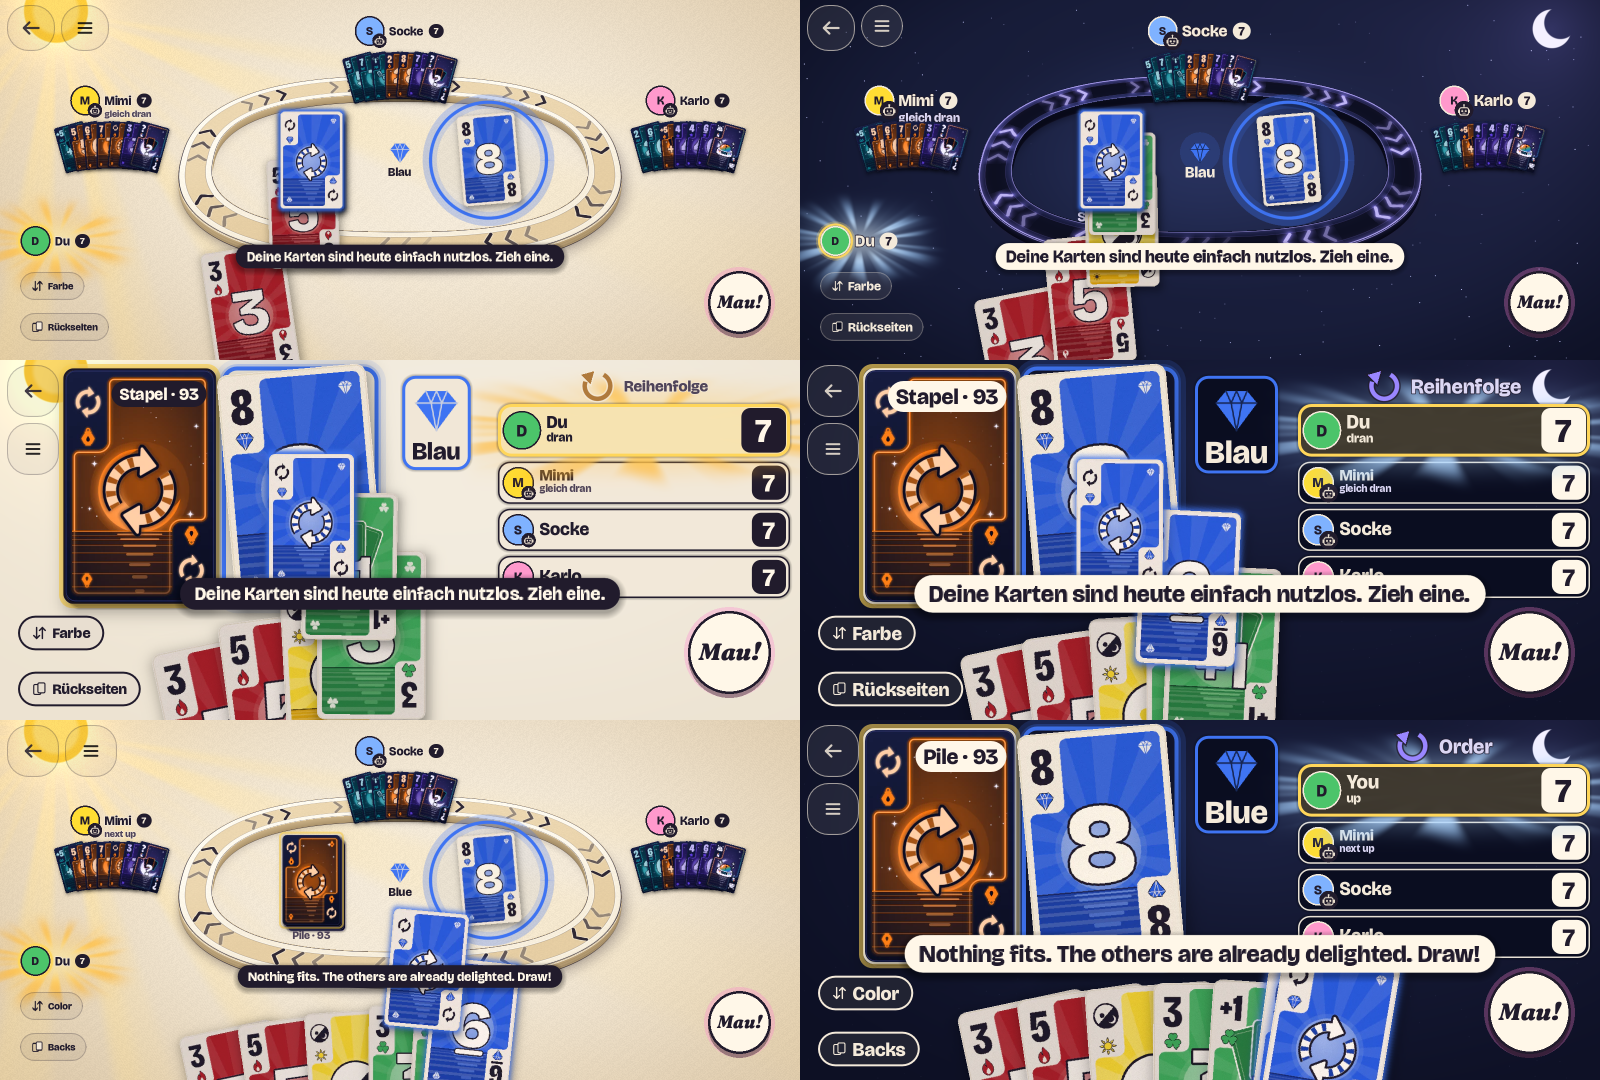
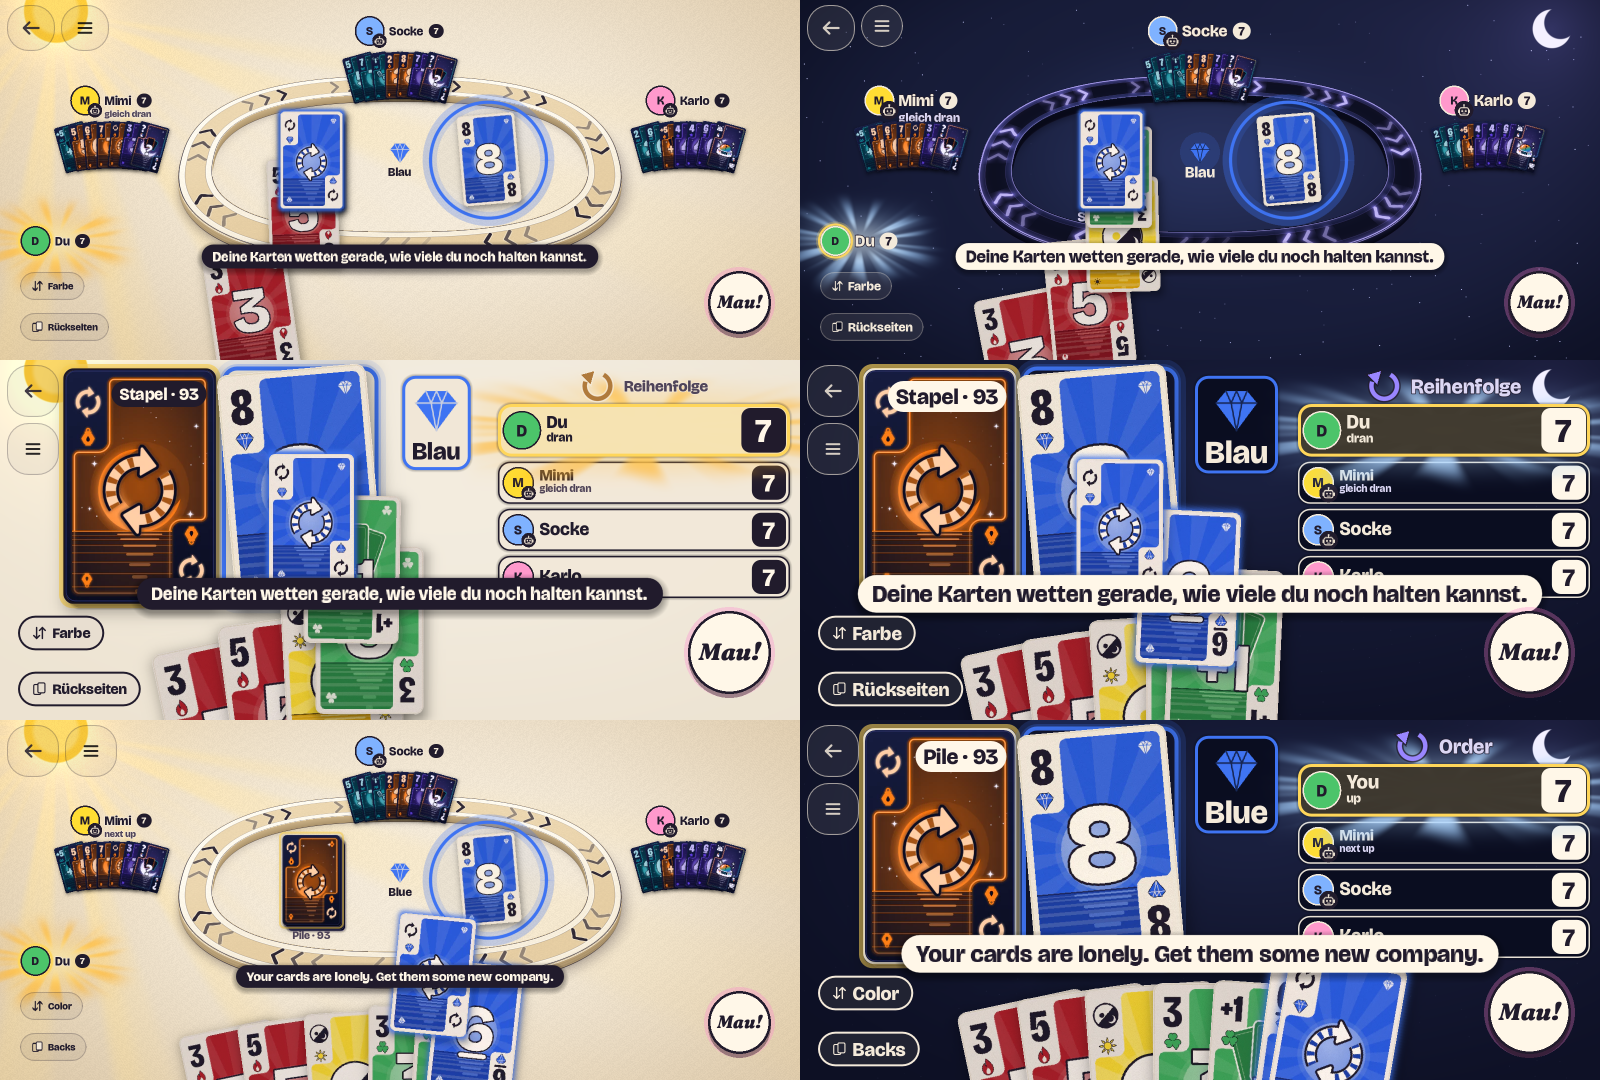
Beta 1.4.7: 11 weitere „Nichts passt“-Sprüche vom Nutzer (jetzt 51), Englisch mit Wortspielen

diff --git a/webclient/i18n_po.js b/webclient/i18n_po.js
@@ -196,6 +196,7 @@ window.MMF_I18N_PO = {
   "Beim Weitergeben spielen mehrere an diesem Gerät, darum zählen dort nur die Partien.": "In Pass the phone, several people play on this device, so only games are counted there.",
   "Beitreten": "Join",
   "Beliebige Karte": "Any card",
+  "Bereichere dich doch mal wieder.": "Go on, enrich yourself – with cards.",
   "Bereit zur Installation.": "Ready to install.",
   "Bereit ✓": "Ready ✓",
   "Bereite die Datei vor …": "Preparing the file …",
@@ -295,9 +296,11 @@ window.MMF_I18N_PO = {
   "Deine Hand hat heute frei. Zieh eine Karte.": "Your hand has the day off. Draw a card.",
   "Deine Hand: viel Auswahl, null Treffer. Zieh eine.": "Your hand: lots of choice, zero hits. Draw one.",
   "Deine Karten haben Karten bekommen.": "Your cards had baby cards.",
+  "Deine Karten sind einsam. Hol ihnen neue Gesellschaft.": "Your cards are lonely. Get them some new company.",
   "Deine Karten sind heute einfach nutzlos. Zieh eine.": "Your cards are just useless today. Draw one.",
   "Deine Karten sind sich einig: Ziehen!": "Your cards all agree: draw!",
   "Deine Karten streiken. Zieh eine neue.": "Your cards are on strike. Draw a new one.",
+  "Deine Karten wetten gerade, wie viele du noch halten kannst.": "Your cards are betting on how many more you can hold.",
   "Deine Karten, deine Entscheidung.": "Your cards, your call.",
   "Deine Statistik": "Your stats",
   "Deine Titel": "Your titles",
@@ -359,6 +362,7 @@ window.MMF_I18N_PO = {
   "Die Farbe stimmt nicht, die Zahl auch nicht. Zieh!": "The colour is wrong and so is the number. Draw!",
   "Die Glückssträhne von %s ist eher eine Pechsträhne.": "%s's lucky streak looks more like a bad one.",
   "Die Karte passt nicht.": "That card doesn't match.",
+  "Die Karten in deiner Nähe wollen dich kennenlernen.": "The cards nearby want to get to know you.",
   "Die Karten lieben dich heute.": "The cards love you today.",
   "Die Karten mögen dich. Sehr.": "The cards like you. A lot.",
   "Die Karten verlassen dich. Verständlich.": "Your cards are leaving you. Understandable.",
@@ -434,6 +438,7 @@ window.MMF_I18N_PO = {
   "Du bist fertig (Platz %d).": "You're out (place %d).",
   "Du bist gerade in einem Spiel. Wenn du wechselst, verlässt du es.": "You are in a game right now. If you switch, you leave it.",
   "Du bist gerade nicht dran.": "It's not your turn right now.",
+  "Du bist im VollZUG. Es kann nur voller werden.": "Your hand is a full DRAWer. It can only get fuller.",
   "Du bist nicht dran.": "It's not your turn.",
   "Du bist schon in diesem Spiel.": "You are already in this game.",
   "Du darfst auch freiwillig ziehen. Hausregel: Danach darfst du eine andere passende Karte legen oder alles behalten; passt nichts, ist dein Zug vorbei.": "You may also draw voluntarily. House rule: Afterward you may play a different matching card or keep everything; if nothing fits, your turn is over.",
@@ -446,6 +451,7 @@ window.MMF_I18N_PO = {
   "Du gewinnst die Partie!": "You win the game!",
   "Du gewinnst die Runde!": "You win the round!",
   "Du hast die neueste Version.": "You have the latest version.",
+  "Du hast noch nicht genug Karten!": "You don't have enough cards yet!",
   "Du hast schon gezogen – legen oder behalten.": "You've already drawn – play or keep.",
   "Du hast schon „Mau!“ gerufen.": "You've already called “Mau!”.",
   "Du hörst auf – %d Karten unter die Ablage.": "You stop – %d cards go under the discard pile.",
@@ -492,6 +498,7 @@ window.MMF_I18N_PO = {
   "Eine gezogene Karte darfst du erst im nächsten Zug legen.": "You may only play a drawn card on your next turn.",
   "Eine passende gezogene Karte darfst du sofort legen.": "You may play a matching drawn card right away.",
   "Eine passende gezogene Karte musst du sofort legen.": "You must play a matching drawn card right away.",
+  "Einfach mal hochZIEHEN, anstatt zu schnauben.": "Instead of grumbling, just DRAW UP a card.",
   "Einladung teilen": "Share invitation",
   "Einmal im Kreis und zurück.": "Once around the circle and back again.",
   "Einsatz %d": "Stake %d",
@@ -575,6 +582,7 @@ window.MMF_I18N_PO = {
   "Gelb": "Yellow",
   "Gelegt wird sie frühestens im nächsten Zug.": "You can play it on your next turn at the earliest.",
   "Gelöscht: „%s“": "Deleted: “%s”",
+  "Genieße das Leben in vollen ZÜGEN! Zieh eine.": "Live life to the fullest – full of DRAWs! Draw one.",
   "Gerade gibt es nichts zurückzunehmen.": "There is nothing to take back right now.",
   "Gerade ist keine Farbwahl offen.": "No color choice is open right now.",
   "Gerade ist nichts zum Mitablegen offen.": "There is nothing to discard along with it right now.",
@@ -647,6 +655,7 @@ window.MMF_I18N_PO = {
   "Herausnehmen": "Remove",
   "Herunterladen": "Download",
   "Heute gibt's im Stapel zwei zum Preis von einer.": "Today the pile has two for the price of one.",
+  "Heute im Sonderangebot: Karten! Zieh eine, bekomme 4!": "Special offer today: cards! Draw one, get four!",
   "Heute ist dein Glückstag. Vielleicht.": "Today's your lucky day. Maybe.",
   "Heute ist nicht dein Tag, oder?": "Not your day today, is it?",
   "Hier gibt es nichts anzuzweifeln.": "There's nothing to challenge here.",
@@ -1213,12 +1222,14 @@ window.MMF_I18N_PO = {
   "Zeigt er 0 und deine Hand ist leer, kommt der Einsatz unter den Ablagestapel: Du bist fertig und gewinnst die Runde.": "If it shows 0 and your hand is empty, the stake goes under the discard pile: You are out and win the round.",
   "Zeigt, was schon geklappt hat. Der nächste Schritt leuchtet.": "Shows what has worked so far. The next step glows.",
   "Zeit für einen Snack – %s braucht noch.": "Snack time – %s needs a bit longer.",
+  "Zieh Leine … oder eine Karte.": "Draw the line … or just a card.",
   "Zieh doch mal – nur so zum Spaß.": "Go on, draw one – just for fun.",
   "Zieh eine – das Glück wartet vielleicht oben.": "Draw one – luck may be waiting on top.",
   "Zieh eine. Vielleicht ist ja die richtige dabei.": "Draw one. Maybe the right one is in there.",
   "Zieh! Der Stapel hat dich lieb.": "Draw! The pile loves you.",
   "Ziehen": "Draw",
   "Ziehen ist auch eine Strategie.": "Drawing is a strategy too.",
+  "Ziehen oder nicht ziehen … keine Frage. Du MUSST!": "To draw or not to draw … no question. You MUST!",
   "Ziehen, ziehen, ziehen …": "Draw, draw, draw …",
   "Ziehkarten": "Draw cards",
   "Ziehkarten weitergeben": "Stack draw cards",

diff --git a/webclient/app.js b/webclient/app.js
@@ -5,7 +5,7 @@
 (function (M) {
   'use strict';
 
-  const VERSION = '1.4.6';
+  const VERSION = '1.4.7';
   const PROTO = 1;
   // wach.mp4 (32×32, 2 s, H.264 Baseline, ohne Ton; erzeugt mit ffmpeg) als data:-URI
[1 lines of base64/hex data omitted]

diff --git a/webclient/spass.js b/webclient/spass.js
@@ -111,7 +111,18 @@
       ["Nichts zu legen, aber was zu ziehen!", "nett"],
       ["Zieh eine – das Glück wartet vielleicht oben.", "nett"],
       ["Nichts passt. Die anderen freuen sich schon. Zieh!", "frech"],
-      ["Deine Hand: viel Auswahl, null Treffer. Zieh eine.", "frech"]
+      ["Deine Hand: viel Auswahl, null Treffer. Zieh eine.", "frech"],
+      ["Heute im Sonderangebot: Karten! Zieh eine, bekomme 4!", "nett"],
+      ["Du bist im VollZUG. Es kann nur voller werden.", "nett"],
+      ["Zieh Leine … oder eine Karte.", "nett"],
+      ["Deine Karten sind einsam. Hol ihnen neue Gesellschaft.", "nett"],
+      ["Deine Karten wetten gerade, wie viele du noch halten kannst.", "nett"],
+      ["Genieße das Leben in vollen ZÜGEN! Zieh eine.", "nett"],
+      ["Ziehen oder nicht ziehen … keine Frage. Du MUSST!", "nett"],
+      ["Einfach mal hochZIEHEN, anstatt zu schnauben.", "nett"],
+      ["Die Karten in deiner Nähe wollen dich kennenlernen.", "nett"],
+      ["Du hast noch nicht genug Karten!", "nett"],
+      ["Bereichere dich doch mal wieder.", "nett"]
     ],
     tipp: [
       ["Im Ziehstapel liegt vielleicht genau die Karte, die du brauchst. Schau mal nach.", "frech"],

diff --git a/AGENTS.md b/AGENTS.md
@@ -130,7 +130,7 @@ Anlass: erstes echtes Online-Spiel des Nutzers (S24 Gastgeber, Freundin als Gast
 - **Mitten im Spiel dazuholen/entfernen:** QR-Codes für Neue, Platz wählen; Neuer bekommt die höchste aktuelle Kartenzahl eines Mitspielers, höchstens die Startzahl. Wer ausfällt (Akku leer, keine Lust, offline/„in anderer App“), kann der Gastgeber entfernen – neben „Computer übernimmt“, beide Optionen sofort sichtbar.
 - **Erledigt in Beta 1.4.3 (veröffentlicht 10.10.2026): QR-Scanner** (Google Code Scanner, `QrScan.java`, keine Kamera-Erlaubnis; kleiner gelber Rundknopf oben rechts auf „Beitreten“ – Nutzerwunsch, der große Knopf verdrängte die Liste), Auswertung `QrJoin.parse` (WLAN-Link, Online-Link, App-Link, `WIFI:`), Spiel-WLAN per `WifiNetworkSpecifier` (`QrWifi.java`, Bindung `qr_wifi`, Freigabe beim Verlassen und über `QrJoin.check_lost`), Testeinstieg `--es mmf_scan`. Nutzer hat den Online-QR mit echter Kamera gescannt. Bericht `docs/geraetetest/1.4.3/BERICHT.md`. Offen: mobile Daten am Gast mangels SIM ungeprüft; Dialog „Lobby schließen?“ zählt getrennte Gäste als verbunden; Spiel-WLAN bleibt nach „Lobby schließen“ offen.
 - **Gastgeber-Übergabe** (Nutzer 10.10.2026, „passt so“; nach dem Kontingent-Neustart Mo 12.10. 20 Uhr): (1) geplant: „Gastgeber übergeben“ → Gast wählen → vollständiger Spielstand geht an ihn, alle werden umgeleitet; (2) unerwarteter Ausfall: laufende Sicherungskopie an einen Ersatz-Gastgeber (z. B. Nächster am Tisch), der nach einigen Sekunden übernimmt (Kompromiss: dessen App hält alle Karten, zeigt sie nicht). Reihenfolge: zuerst online (Vermittler/Raumcode bleiben), dann WLAN (App-Gäste finden den neuen Gastgeber, Browser-Gäste bekommen die Ersatz-Adresse vorab); Spiel-WLAN nur geplant (neuer Gastgeber öffnet eigenes Spiel-WLAN, Umzug per QR).
-- **Erledigt in Beta 1.4.4 (veröffentlicht 10.10.2026): Ostereier Teil 1** – Sprüche (`fun_texts.gd`, `webclient/spass.js`, `game/i18n/en_fun.po`; Liste des Nutzers `docs/module/sprueche.md`, 11 Anlässe × 20, „geil“; Einstellung `sprueche` aus/nett/frech, ab Werk frech), Überraschungen (`fun_fx.gd`: Katze auf dem Stapel, Sternschnuppe/Schmetterling, Autsch-Stempel, Applaus; `fun_logo.gd`: 7× Katze, Sonne grinst/Mond zwinkert; `fun_titles.gd`: Spaßtitel). Bericht `docs/geraetetest/1.4.4/BERICHT.md`. **1.4.5 (veröffentlicht 10.10.2026):** Einstellung `sprueche_oft` Selten/Normal/Oft/Immer (ab Werk Oft; Nutzer fand Sprüche zu selten), Immer ersetzt den Standardtext beim eigenen Zug dauerhaft, gemischte Tüte je Anlass. **1.4.6 (veröffentlicht 10.10.2026):** Anlass `nichts_passt` (40 Sprüche, Abschnitt 12 in `docs/module/sprueche.md`) ersetzt nur den reinen Hinweis „nichts passt – zieh eine Karte“ (nicht bei Strafen/Ziehpflicht; nur mit „Spielbare Karten hervorheben“). **Teil 2 (nach Mo 12.10.):** an andere senden – Gähnen, Schnarchen, Wecker, Reaktionen, Papierkugel, mit eigenen Tönen zur Auswahl.
+- **Erledigt in Beta 1.4.4 (veröffentlicht 10.10.2026): Ostereier Teil 1** – Sprüche (`fun_texts.gd`, `webclient/spass.js`, `game/i18n/en_fun.po`; Liste des Nutzers `docs/module/sprueche.md`, 11 Anlässe × 20, „geil“; Einstellung `sprueche` aus/nett/frech, ab Werk frech), Überraschungen (`fun_fx.gd`: Katze auf dem Stapel, Sternschnuppe/Schmetterling, Autsch-Stempel, Applaus; `fun_logo.gd`: 7× Katze, Sonne grinst/Mond zwinkert; `fun_titles.gd`: Spaßtitel). Bericht `docs/geraetetest/1.4.4/BERICHT.md`. **1.4.5 (veröffentlicht 10.10.2026):** Einstellung `sprueche_oft` Selten/Normal/Oft/Immer (ab Werk Oft; Nutzer fand Sprüche zu selten), Immer ersetzt den Standardtext beim eigenen Zug dauerhaft, gemischte Tüte je Anlass. **1.4.6 (veröffentlicht 10.10.2026):** Anlass `nichts_passt` (40 Sprüche, ab 1.4.7 mit 11 eigenen des Nutzers 51; Abschnitt 12 in `docs/module/sprueche.md`) ersetzt nur den reinen Hinweis „nichts passt – zieh eine Karte“ (nicht bei Strafen/Ziehpflicht; nur mit „Spielbare Karten hervorheben“). **Teil 2 (nach Mo 12.10.):** an andere senden – Gähnen, Schnarchen, Wecker, Reaktionen, Papierkugel, mit eigenen Tönen zur Auswahl.
 - **Ostereier:** viele lustige/freche Hinweistexte (Zug, Richtungswechsel, langes Nachdenken, viele/wenige Karten, falsche Tipps wie „Im Stapel liegt die Karte, die du brauchst“ → „Hehe, verarscht!“), Aktionen an langsame Spieler (Gähnen, Schnarchen, Wecker 3 s) – Liste und Beispiele siehe Nutzernachricht vom 10.10.2026.
 
 ## Geplant: Online-Spiel, Schritt 1 (Nutzerentscheidung 08.10.2026)

diff --git a/docs/module/sprueche.md b/docs/module/sprueche.md
@@ -301,3 +301,14 @@ Diese Sprüche dürfen den Hinweis „Nichts passt – zieh eine Karte“ ersetz
 38. Zieh eine – das Glück wartet vielleicht oben.
 39. Nichts passt. Die anderen freuen sich schon. Zieh! (F)
 40. Deine Hand: viel Auswahl, null Treffer. Zieh eine. (F)
+41. Heute im Sonderangebot: Karten! Zieh eine, bekomme 4!
+42. Du bist im VollZUG. Es kann nur voller werden.
+43. Zieh Leine … oder eine Karte.
+44. Deine Karten sind einsam. Hol ihnen neue Gesellschaft.
+45. Deine Karten wetten gerade, wie viele du noch halten kannst.
+46. Genieße das Leben in vollen ZÜGEN! Zieh eine.
+47. Ziehen oder nicht ziehen … keine Frage. Du MUSST!
+48. Einfach mal hochZIEHEN, anstatt zu schnauben.
+49. Die Karten in deiner Nähe wollen dich kennenlernen.
+50. Du hast noch nicht genug Karten!
+51. Bereichere dich doch mal wieder.

diff --git a/docs/release_notes/1.4.7.md b/docs/release_notes/1.4.7.md
@@ -1,0 +1,10 @@
+**Mau-Mau Flip 1.4.7 (Beta)** – noch mehr Gründe zu ziehen.
+
+## Neu
+
+- **11 weitere Sprüche für „Nichts passt – zieh eine Karte“**, jetzt 51 – darunter „Du bist im VollZUG. Es kann nur voller werden.“ und „Zieh Leine … oder eine Karte.“ Auf Englisch mit eigenen Wortspielen.
+
+## Hinweise
+
+- Testversion: Rückmeldungen gern über die Issues.
+- Update direkt in der App: Einstellungen → Updates → „Jetzt prüfen“ (Beta-Kanal einschalten).
